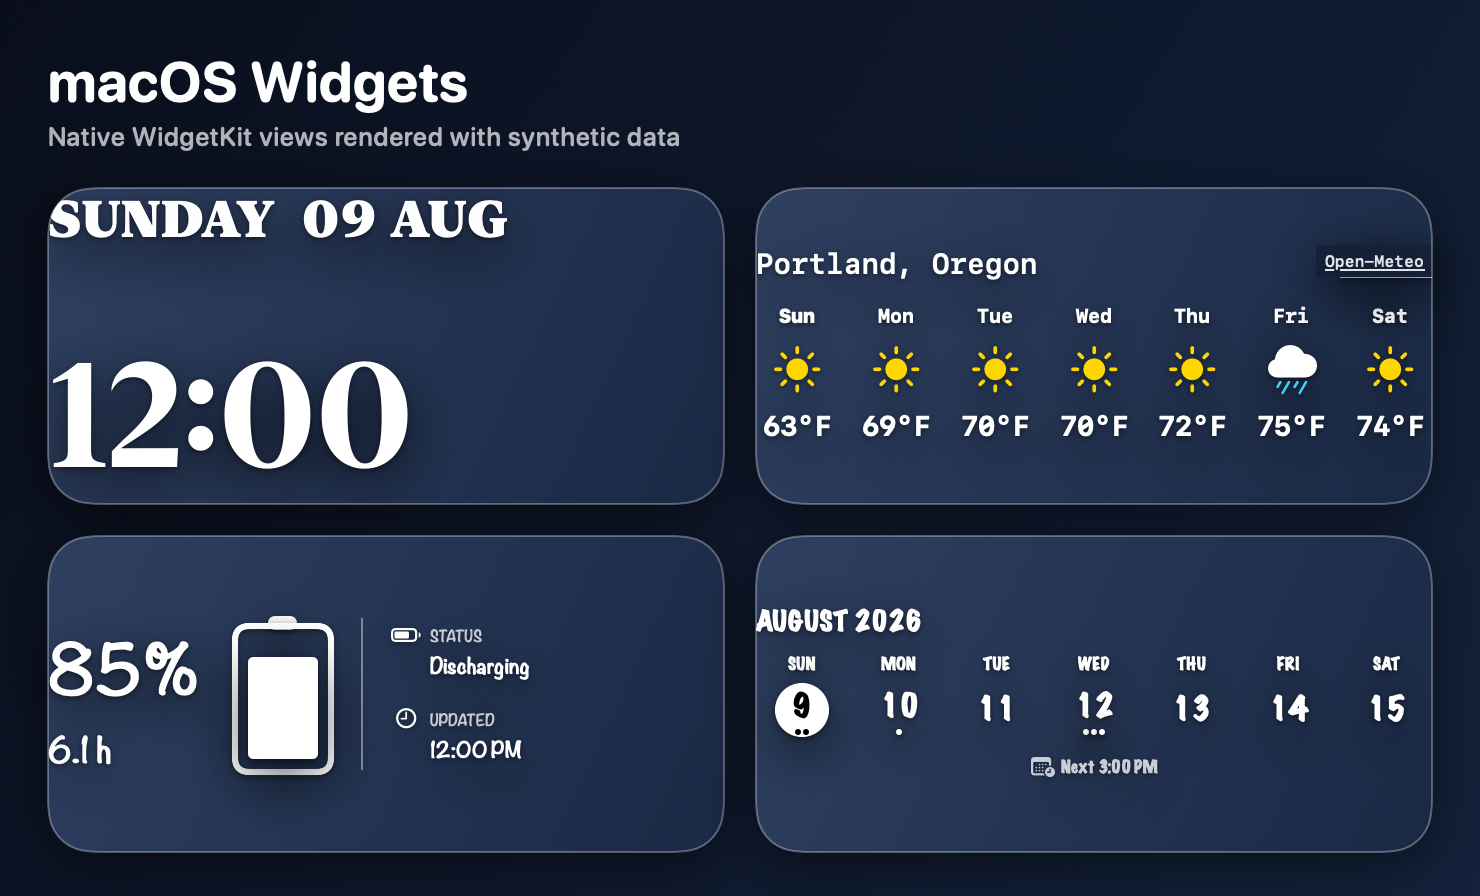
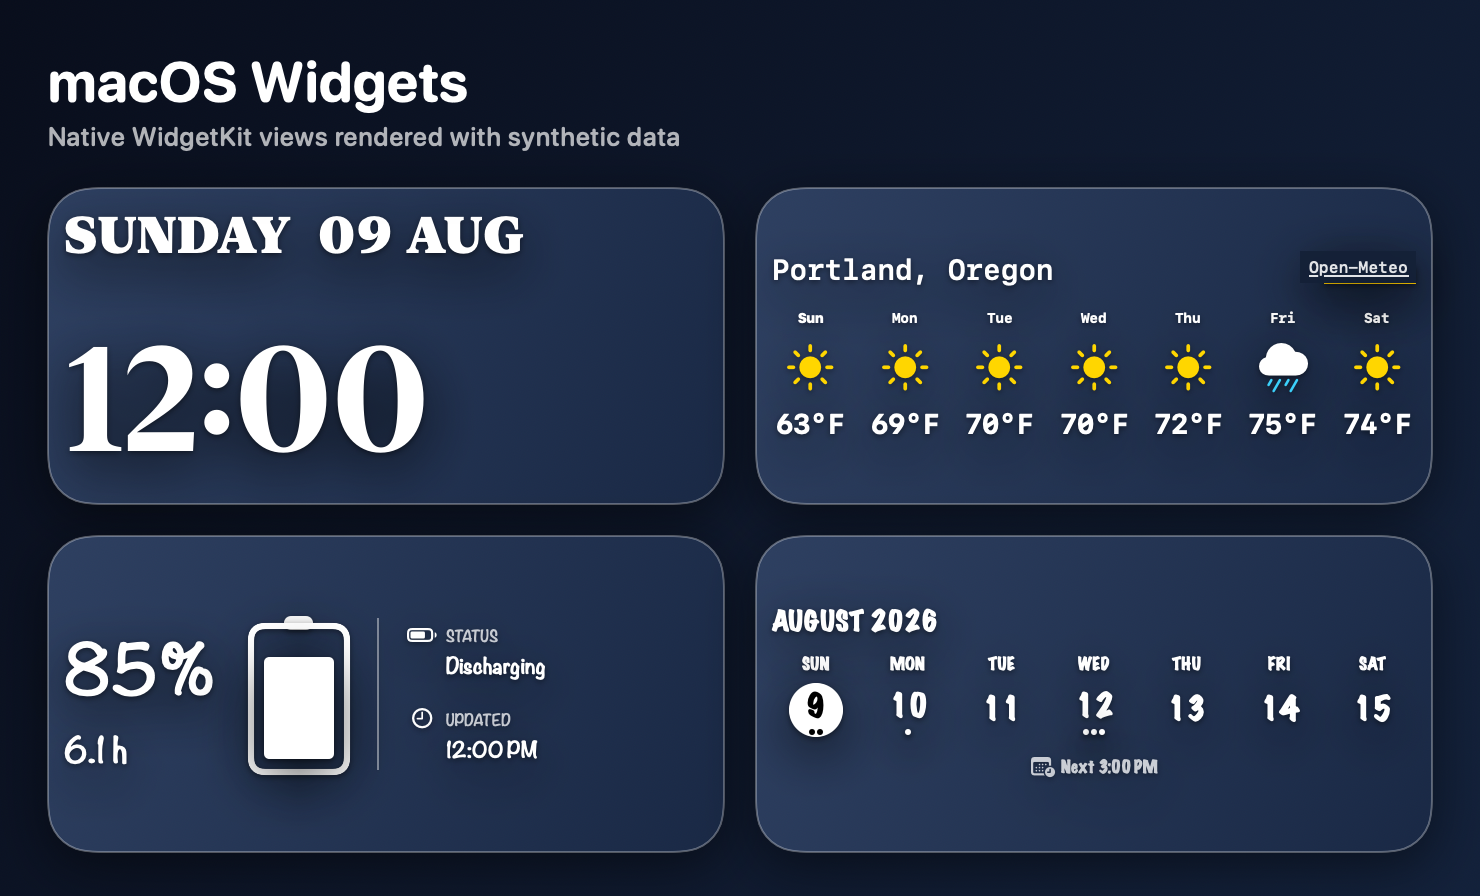
Keep showcase text inside widget cards (#12)
* Keep showcase text inside widget cards

Inset the synthetic widget views within their portfolio cards so typography and symbols no longer meet the rounded clipping boundary.

Add pixel-level edge-clearance coverage, regenerate both public preview assets, and record the review-before-publication plan.

* Derive showcase edge checks from layout

Centralize the portfolio canvas, spacing, card, inset, and scan metrics so the rendered preview and clipping regression share one source of truth.

Assert the expected bitmap dimensions and preserve the approved image output byte-for-byte while completing the Brooks review plan.

diff --git a/DesktopWidgetsTests/WidgetRenderingSmokeTests.swift b/DesktopWidgetsTests/WidgetRenderingSmokeTests.swift
@@ -257,7 +257,7 @@ final class WidgetRenderingSmokeTests: XCTestCase {
     }
 
     func testPortfolioPreviewRendersWithSyntheticData() throws {
-        let size = CGSize(width: 740, height: 448)
+        let size = PortfolioPreviewLayout.canvasSize
         let utc = try XCTUnwrap(TimeZone(secondsFromGMT: 0))
         let renderer = ImageRenderer(
             content: PortfolioPreview()
@@ -266,13 +266,23 @@ final class WidgetRenderingSmokeTests: XCTestCase {
                 .environment(\.colorScheme, .dark)
         )
         renderer.proposedSize = ProposedViewSize(width: size.width, height: size.height)
-        renderer.scale = 2
+        renderer.scale = PortfolioPreviewLayout.renderScale
 
         let image: NSImage = try XCTUnwrap(renderer.nsImage, "Failed to render the portfolio preview")
         let tiffData: Data = try XCTUnwrap(image.tiffRepresentation, "Portfolio preview had no pixels")
         let bitmap: NSBitmapImageRep = try XCTUnwrap(
             NSBitmapImageRep(data: tiffData),
             "Portfolio preview could not be decoded"
+        )
+        XCTAssertEqual(
+            bitmap.pixelsWide,
+            Int(size.width * renderer.scale),
+            "Portfolio preview width must match the shared layout and renderer scale"
+        )
+        XCTAssertEqual(
+            bitmap.pixelsHigh,
+            Int(size.height * renderer.scale),
+            "Portfolio preview height must match the shared layout and renderer scale"
         )
         XCTAssertTrue(containsVisibleContent(bitmap), "Portfolio preview contained no visible content")
         let backdropLuminance = averageLuminance(
@@ -290,6 +300,7 @@ final class WidgetRenderingSmokeTests: XCTestCase {
             0.06,
             "Portfolio widget cards must remain visually distinct from the backdrop"
         )
+        assertPortfolioCardEdgesAreClear(bitmap, scale: renderer.scale)
 
         let requestURL = URL(fileURLWithPath: "/private/tmp/DesktopWidgetsPortfolioPreview.request")
         guard FileManager.default.fileExists(atPath: requestURL.path) else {
@@ -394,6 +405,62 @@ final class WidgetRenderingSmokeTests: XCTestCase {
         return count > 0 ? total / count : 0
     }
 
+    private func assertPortfolioCardEdgesAreClear(
+        _ bitmap: NSBitmapImageRep,
+        scale: CGFloat,
+        file: StaticString = #filePath,
+        line: UInt = #line
+    ) {
+        let innerEdge = Int(PortfolioPreviewLayout.edgeScanInnerOffset * scale)
+        let safeMargin = Int(PortfolioPreviewLayout.edgeScanSafeMargin * scale)
+        let cornerClearance = Int(PortfolioPreviewLayout.edgeScanCornerClearance * scale)
+
+        for (index, card) in PortfolioPreviewLayout.cardRects.enumerated() {
+            let minX = Int(card.minX * scale)
+            let minY = Int(card.minY * scale)
+            let maxX = Int(card.maxX * scale)
+            let maxY = Int(card.maxY * scale)
+            let edgeRanges = [
+                (minX + innerEdge..<minX + safeMargin, minY + cornerClearance..<maxY - cornerClearance),
+                (maxX - safeMargin..<maxX - innerEdge, minY + cornerClearance..<maxY - cornerClearance),
+                (minX + cornerClearance..<maxX - cornerClearance, minY + innerEdge..<minY + safeMargin),
+                (minX + cornerClearance..<maxX - cornerClearance, maxY - safeMargin..<maxY - innerEdge)
+            ]
+
+            for (edgeIndex, ranges) in edgeRanges.enumerated() {
+                XCTAssertEqual(
+                    brightPixelCount(bitmap, xRange: ranges.0, yRange: ranges.1),
+                    0,
+                    "Portfolio card \(index + 1) has bright widget content inside safe edge \(edgeIndex + 1)",
+                    file: file,
+                    line: line
+                )
+            }
+        }
+    }
+
+    private func brightPixelCount(
+        _ bitmap: NSBitmapImageRep,
+        xRange: Range<Int>,
+        yRange: Range<Int>
+    ) -> Int {
+        var count = 0
+        for y in yRange where y < bitmap.pixelsHigh {
+            for x in xRange where x < bitmap.pixelsWide {
+                guard let color = bitmap.colorAt(x: x, y: y)?.usingColorSpace(.deviceRGB) else {
+                    continue
+                }
+                let luminance = (0.2126 * color.redComponent)
+                    + (0.7152 * color.greenComponent)
+                    + (0.0722 * color.blueComponent)
+                if color.alphaComponent > 0.9 && luminance > 0.72 {
+                    count += 1
+                }
+            }
+        }
+        return count
+    }
+
     private func renderSize(for family: WidgetFamily) -> CGSize {
         switch family {
         case .systemSmall:
@@ -406,13 +473,39 @@ final class WidgetRenderingSmokeTests: XCTestCase {
     }
 }
 
+private enum PortfolioPreviewLayout {
+    static let canvasSize = CGSize(width: 740, height: 448)
+    static let renderScale: CGFloat = 2
+    static let outerPadding: CGFloat = 24
+    static let headerHeight: CGFloat = 52
+    static let sectionSpacing: CGFloat = 18
+    static let cardSpacing: CGFloat = 16
+    static let cardSize = CGSize(width: 338, height: 158)
+    static let cardContentInset: CGFloat = 8
+    static let edgeScanInnerOffset: CGFloat = 2
+    static let edgeScanSafeMargin: CGFloat = 6
+    static let edgeScanCornerClearance: CGFloat = 12
+
+    static var cardRects: [CGRect] {
+        let firstX = outerPadding
+        let secondX = firstX + cardSize.width + cardSpacing
+        let firstY = outerPadding + headerHeight + sectionSpacing
+        let secondY = firstY + cardSize.height + cardSpacing
+        return [
+            CGRect(origin: CGPoint(x: firstX, y: firstY), size: cardSize),
+            CGRect(origin: CGPoint(x: secondX, y: firstY), size: cardSize),
+            CGRect(origin: CGPoint(x: firstX, y: secondY), size: cardSize),
+            CGRect(origin: CGPoint(x: secondX, y: secondY), size: cardSize)
+        ]
+    }
+}
+
 @MainActor
 private struct PortfolioPreview: View {
     private let referenceDate = CalendarProvider.referenceDate
-    private let widgetSize = CGSize(width: 338, height: 158)
 
     var body: some View {
-        VStack(alignment: .leading, spacing: 18) {
+        VStack(alignment: .leading, spacing: PortfolioPreviewLayout.sectionSpacing) {
             VStack(alignment: .leading, spacing: 3) {
                 Text("macOS Widgets")
                     .font(.system(size: 28, weight: .bold, design: .rounded))
@@ -421,9 +514,10 @@ private struct PortfolioPreview: View {
                     .font(.system(size: 13, weight: .medium, design: .rounded))
                     .foregroundStyle(.white.opacity(0.68))
             }
+            .frame(height: PortfolioPreviewLayout.headerHeight, alignment: .topLeading)
 
-            VStack(spacing: 16) {
-                HStack(spacing: 16) {
+            VStack(spacing: PortfolioPreviewLayout.cardSpacing) {
+                HStack(spacing: PortfolioPreviewLayout.cardSpacing) {
                     widgetCard {
                         TimeAndDateWidgetView(
                             entry: TimeAndDateEntry(
@@ -461,7 +555,7 @@ private struct PortfolioPreview: View {
                     }
                 }
 
-                HStack(spacing: 16) {
+                HStack(spacing: PortfolioPreviewLayout.cardSpacing) {
                     widgetCard {
                         BatteryWidgetView(
                             entry: BatteryEntry(
@@ -485,8 +579,12 @@ private struct PortfolioPreview: View {
                 }
             }
         }
-        .padding(24)
-        .frame(width: 740, height: 448, alignment: .topLeading)
+        .padding(PortfolioPreviewLayout.outerPadding)
+        .frame(
+            width: PortfolioPreviewLayout.canvasSize.width,
+            height: PortfolioPreviewLayout.canvasSize.height,
+            alignment: .topLeading
+        )
         .background(
             LinearGradient(
                 colors: [
@@ -518,7 +616,15 @@ private struct PortfolioPreview: View {
 
     private func widgetCard<Content: View>(@ViewBuilder content: () -> Content) -> some View {
         content()
-            .frame(width: widgetSize.width, height: widgetSize.height)
+            .frame(
+                width: PortfolioPreviewLayout.cardSize.width - (PortfolioPreviewLayout.cardContentInset * 2),
+                height: PortfolioPreviewLayout.cardSize.height - (PortfolioPreviewLayout.cardContentInset * 2)
+            )
+            .padding(PortfolioPreviewLayout.cardContentInset)
+            .frame(
+                width: PortfolioPreviewLayout.cardSize.width,
+                height: PortfolioPreviewLayout.cardSize.height
+            )
             .background(
                 LinearGradient(
                     colors: [

diff --git a/docs/Implementation-Plan.md b/docs/Implementation-Plan.md
@@ -1,17 +1,18 @@
 # Plan
 
-Preserve the full Xcode verification gate while sharply reducing costly macOS-hosted executions. Run the gate only for merge-ready pull requests or manual requests, cancel superseded work, and remove the duplicate post-merge `main` run.
+Address the Brooks review warning on pull request #12 by giving the showcase layout one source of truth for dimensions, spacing, and card pixel rectangles. Preserve the approved visual output while making the clipping regression resistant to future layout changes, then validate and push the focused review fix.
 
 ## Scope
-- In: `.github/workflows/ci.yml` trigger, concurrency, draft policy, manual dispatch, and README CI guidance.
-- Out: Xcode tests, coverage behavior, release-build behavior, signing, widget runtime code, branch-protection settings, and self-hosted runners.
+- In: Shared showcase layout metrics, derived card-edge scan rectangles, explicit render-size coverage, Brooks review history, regenerated assets if needed, validation, and a follow-up commit on `codex/fix-preview-text-clipping`.
+- Out: Production WidgetKit layouts, approved showcase styling or content, unrelated refactors, and merging pull request #12.
 
 ## Action items
-[x] Restrict macOS CI to merge-ready pull requests plus manual dispatch, removing the duplicate `main` push trigger.
-[x] Add per-workflow/per-ref concurrency cancellation while preserving the existing 20-minute timeout and read-only permissions.
-[x] Document when hosted macOS verification runs and how to request it manually.
-[x] Validate YAML parsing, workflow-policy invariants, `git diff --check`, and the scoped diff; no Swift test files are needed because executable widget behavior is unchanged.
-[x] Commit and push the isolated `codex/optimize-github-actions` branch while leaving the unrelated `v6` file in the original checkout untouched.
+[x] Extract the preview canvas, padding, header, row, card, inset, and pixel-scan metrics into a shared `PortfolioPreviewLayout` definition.
+[x] Update `PortfolioPreview` to consume the shared metrics and give the header an explicit layout height so card origins are deterministic.
+[x] Derive all card rectangles and edge-clearance ranges from the same point-based metrics and renderer scale; assert the expected bitmap dimensions before scanning.
+[x] Record the Brooks PR review result and verify the approved README/social assets remain visually unchanged apart from any deterministic re-encoding.
+[x] Run the focused generator, `git diff --check`, and complete `./Scripts/verify-widgets.sh` gate.
+[x] Prepare the Brooks review fix for pull request #12 and re-check Codex review, CI Verify, and mergeability without merging.
 
 ## Open questions
-- None.
+- None. The shared metrics remain private test/showcase infrastructure and do not affect production widget behavior.
